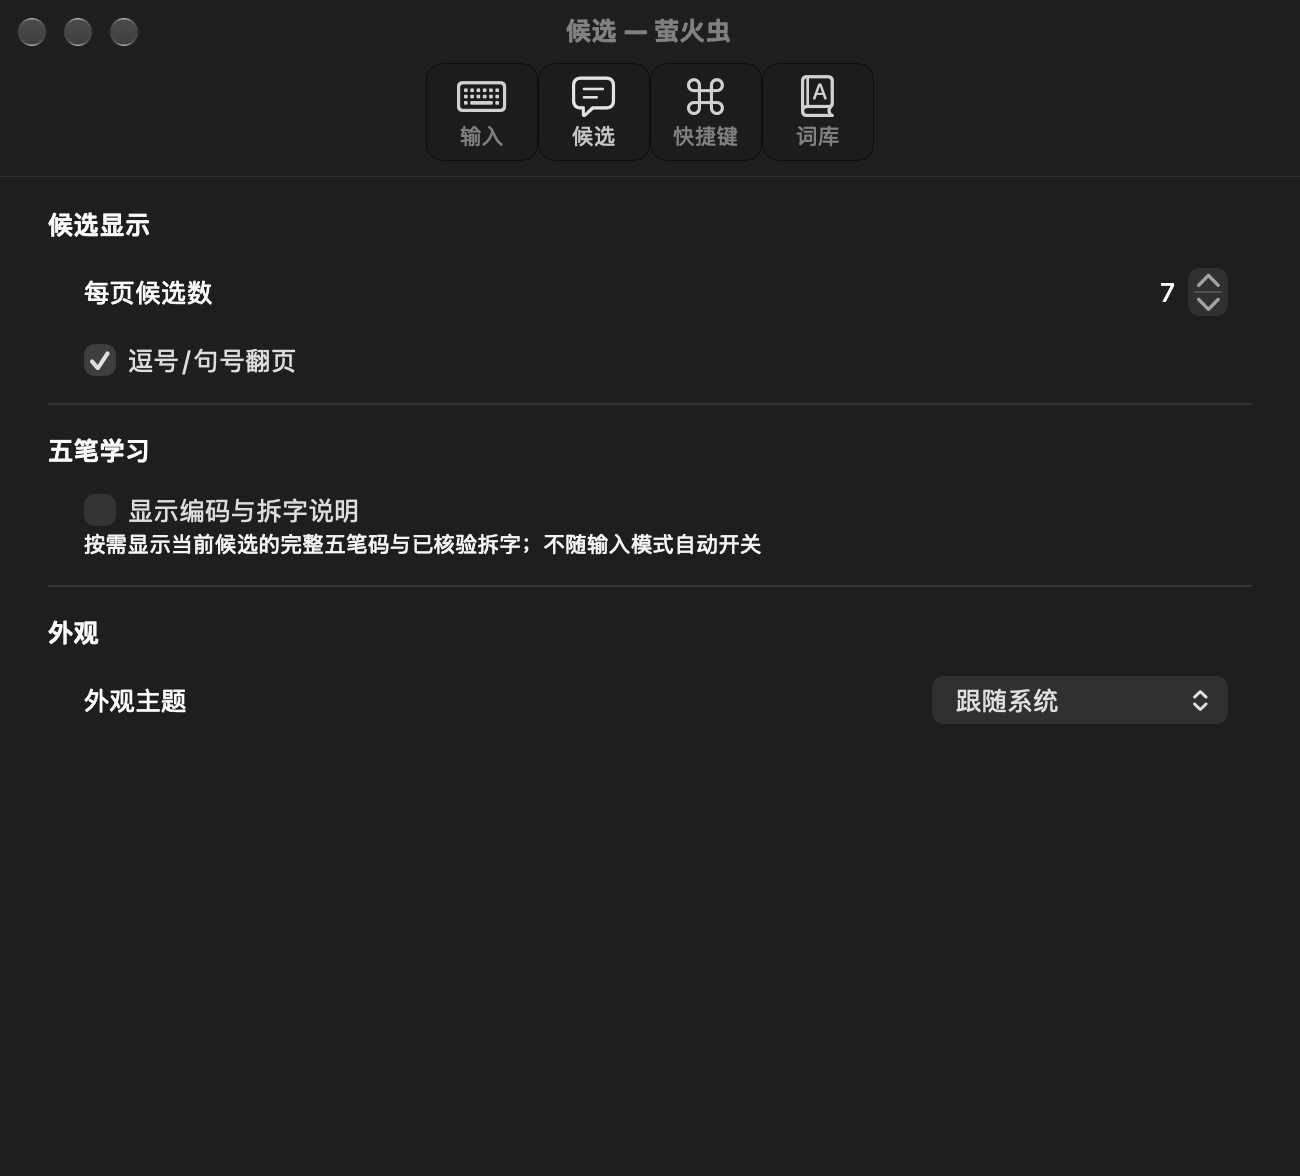
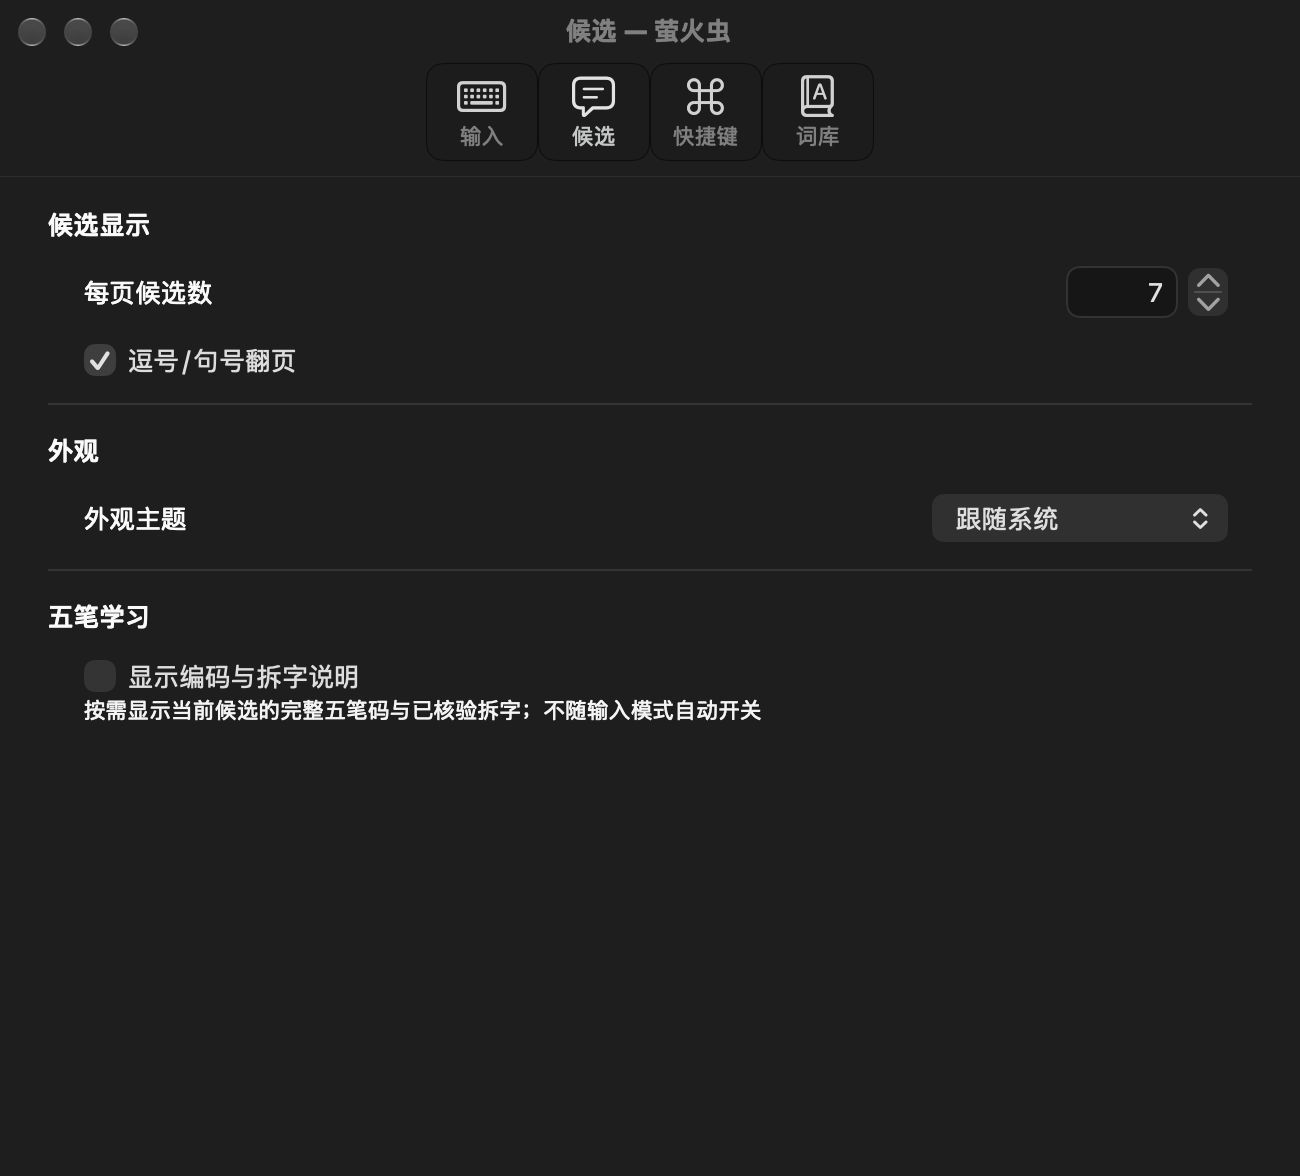
fix(macos): match reviewed numeric settings and group order

diff --git a/platforms/macos/Sources/Settings.swift b/platforms/macos/Sources/Settings.swift
@@ -134,10 +134,16 @@ final class SettingRow: NSStackView, NSTextFieldDelegate {
             checkbox = box
             return box
         case .int(let min, let max):
-            let value = NSTextField(labelWithString: "")
+            let value = NSTextField()
+            value.bezelStyle = .roundedBezel
+            value.delegate = self
+            value.target = self
+            value.action = #selector(numberCommitted(_:))
+            value.setAccessibilityLabel(option.title)
+            value.setAccessibilityHelp(option.userHelp)
             value.alignment = .right
             value.font = .monospacedDigitSystemFont(ofSize: 13, weight: .regular)
-            value.widthAnchor.constraint(equalToConstant: 22).isActive = true
+            value.widthAnchor.constraint(equalToConstant: 54).isActive = true
             numberLabel = value
             let stepper = NSStepper()
             stepper.minValue = Double(min)
@@ -224,6 +230,18 @@ final class SettingRow: NSStackView, NSTextFieldDelegate {
         write(sender.state == .on ? "true" : "false", toml: true)
     }
 
+    @objc private func numberCommitted(_ sender: NSTextField) {
+        write(sender.stringValue.trimmingCharacters(in: .whitespaces), toml: true)
+        reload()
+    }
+
+    var numberValueForTesting: String? { numberLabel?.stringValue }
+    func commitNumberForTesting(_ value: String) {
+        guard let field = numberLabel else { return }
+        field.stringValue = value
+        numberCommitted(field)
+    }
+
     @objc private func stepperChanged(_ sender: NSStepper) {
         write(String(sender.integerValue), toml: true)
     }
@@ -280,8 +298,9 @@ final class SettingRow: NSStackView, NSTextFieldDelegate {
     }
 
     func controlTextDidEndEditing(_ notification: Notification) {
-        guard let field = notification.object as? NSTextField, field === textField else { return }
-        textCommitted(field)
+        guard let field = notification.object as? NSTextField else { return }
+        if field === numberLabel { numberCommitted(field) }
+        else if field === textField { textCommitted(field) }
     }
 
     private func write(_ value: String, toml: Bool) {
@@ -621,7 +640,7 @@ final class SettingsPanel: NSObject, NSWindowDelegate, NSToolbarDelegate {
                 "hotkey.toggle_punctuation", "hotkey.toggle_variant", "hotkey.toggle_wubi_learning"])]
         } else {
             groups = [("候选显示", ["candidate.count", "candidate.page_with_comma"]),
-                ("五笔学习", ["candidate.show_wubi_learning"]), ("外观", ["appearance.theme"])]
+                ("外观", ["appearance.theme"]), ("五笔学习", ["candidate.show_wubi_learning"])]
         }
         let known = Set(groups.flatMap { $0.1 })
         let allGroups = groups + [("其他", options.filter { !known.contains($0.key) }.map(\.key))]

diff --git a/platforms/macos/tests/settings-presentation.swift b/platforms/macos/tests/settings-presentation.swift
@@ -17,6 +17,21 @@ guard panel.sectionCount == 4, panel.rowCount == options.count, options.count ==
 else { fail("schema/native toolbar/session availability") }
 panel.selectSectionForTesting(0)
 guard panel.visibleOptionKeysForTesting == ["mode", "input.chinese_variant", "input.punctuation", "input.full_width", "wubi.auto_commit", "wubi.z_key", "pinyin.fuzzy"] else { fail("design input grouping and order") }
+panel.selectSectionForTesting(1)
+guard panel.visibleOptionKeysForTesting == ["candidate.count", "candidate.page_with_comma", "appearance.theme", "candidate.show_wubi_learning"] else { fail("candidate design group order") }
+guard let countOption = options.first(where: { $0.key == "candidate.count" }) else { fail("count schema") }
+let numberRow = SettingRow(option: countOption)
+numberRow.reload()
+for value in ["3", "9", "7"] {
+    numberRow.commitNumberForTesting(value)
+    guard ImeConfig.int("candidate.count") == Int(value), numberRow.numberValueForTesting == value else { fail("editable native count") }
+}
+for value in ["", "0", "10", "3.5", "abc"] {
+    numberRow.commitNumberForTesting(value)
+    guard ImeConfig.int("candidate.count") == 7, numberRow.numberValueForTesting == "7" else { fail("invalid count rollback") }
+}
+numberRow.commitNumberForTesting("7")
+panel.reportSaved()
 panel.selectSectionForTesting(2)
 guard panel.visibleOptionKeysForTesting.last == "hotkey.toggle_wubi_learning" else { fail("design learning shortcut placement") }
 func snapshot(_ image: NSBitmapImageRep?, _ name: String) {

diff --git a/platforms/macos/Preview/main.swift b/platforms/macos/Preview/main.swift
@@ -709,9 +709,8 @@ if CommandLine.arguments.contains("--smoke-test") {
         }
     }
     let displayedKeys = SettingsPanel.shared.displayedOptionKeys
-    let displayedScopes = displayedKeys.compactMap { key in settingsOptions.first { $0.key == key }?.scope }
-    guard displayedScopes == displayedScopes.sorted(),
-        Set(displayedKeys).count == settingsOptions.count,
+    guard displayedKeys.count == settingsOptions.count,
+        Set(displayedKeys) == Set(settingsOptions.map(\.key)),
         SettingsPanel.shared.minimumContentSize.width >= 520,
         SettingsPanel.shared.minimumContentSize.height >= 440
     else { fputs("设置分组或窗口约束不符。\n", stderr); exit(1) }

diff --git a/docs/reviews/026-complete-learning-ui.md b/docs/reviews/026-complete-learning-ui.md
@@ -1,6 +1,6 @@
 # 026 首版完整 UI 与拆字学习实现核验
 
-日期：2026-10-15。源码基于 main 50fdac3；独立分支 codex/mvp-complete-learning-ui。ADR-170…179；任务 T-MVP-FULL-UI。用户已授权纳入首版；本报告替代原“教学后移”的当前工程安排，不改写历史审计025。
+日期：2026-10-15。源码基于 main 50fdac3；独立分支 codex/mvp-complete-learning-ui。ADR-170…180；任务 T-MVP-FULL-UI。用户已授权纳入首版；本报告替代原“教学后移”的当前工程安排，不改写历史审计025。
 
 ## 已实现
 
@@ -28,3 +28,5 @@
 ## 下一步
 
 冻结源提交→审核包/源码包与离线逐字节重建→按持续授权推送PR，check/DCO/fuzz/macos全绿后合入并CI签名公证→核对最终包身份→设备空闲时完成真实产品验收。持续扩充经核验的常用字解释，不以猜码/不明字体填充缺口。
+
+配对复核补齐ADR-180：候选pane顺序调整为候选显示/外观/五笔学习，候选数量增加原生可编辑数字框，与步进器共用唯一配置校验；非法/超范围回退及实际表单回归通过。预览原按内部scope递增的断言已改为检查完整无重复配置覆盖，设计分组次序由独立真实组件回归验证。此修订再次冻结和包级重建，不沿用fb757b4的包身份。

diff --git a/docs/决策记录.md b/docs/决策记录.md
@@ -1462,6 +1462,12 @@
 - **视觉与焦点**：学习摘要保留精简识别码行，同时通过提示/辅助说明提供完整规则；关于窗口恢复原有显式激活约定。无新配置、持久化或依赖。
 - **验证**：原生表单/隐藏父窗口拒绝且不清组合、候选与学习回归、严格宿主编译及全工程验证；真实 sheet 键盘/VoiceOver仍需最终包验收。
 
+## ADR-180 候选设置数字编辑与参考分组顺序
+
+- **状态**：采纳（2026-10-15，配对复核收尾）。
+- **决策**：每页候选数同时提供原生数字输入框和步进器，键盘/Return/失焦通过同一ime-config校验，不新增默认或范围副本；非法/超范围写入恢复已保存值并显示失败。候选pane按统一稿“候选显示→外观→五笔学习”排列。此项是还原与键盘可达性补齐，不增加设置项。
+- **验证**：真实控件动作接受3–9、拒绝空/非整数/超范围且配置不变；分组顺序、亮暗最小尺寸、全工程/宿主及冻结包重建重新通过后交付。
+
 ## 待定项
 
 | 编号 | 议题 | 说明 |
